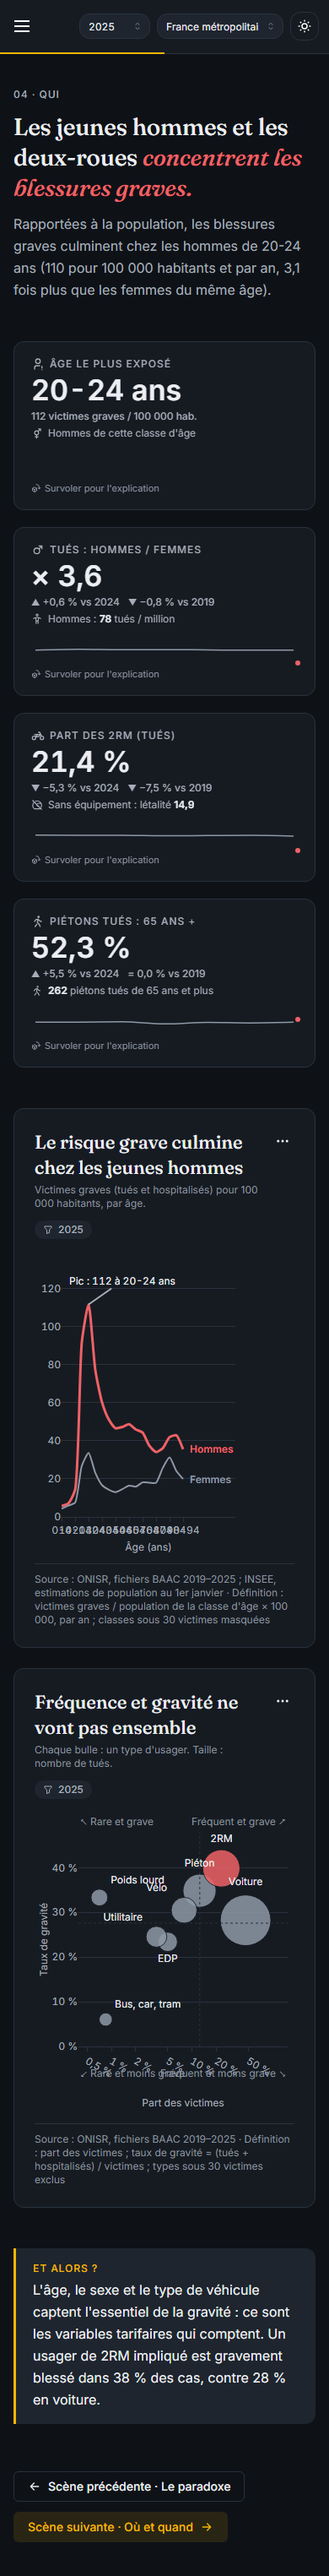
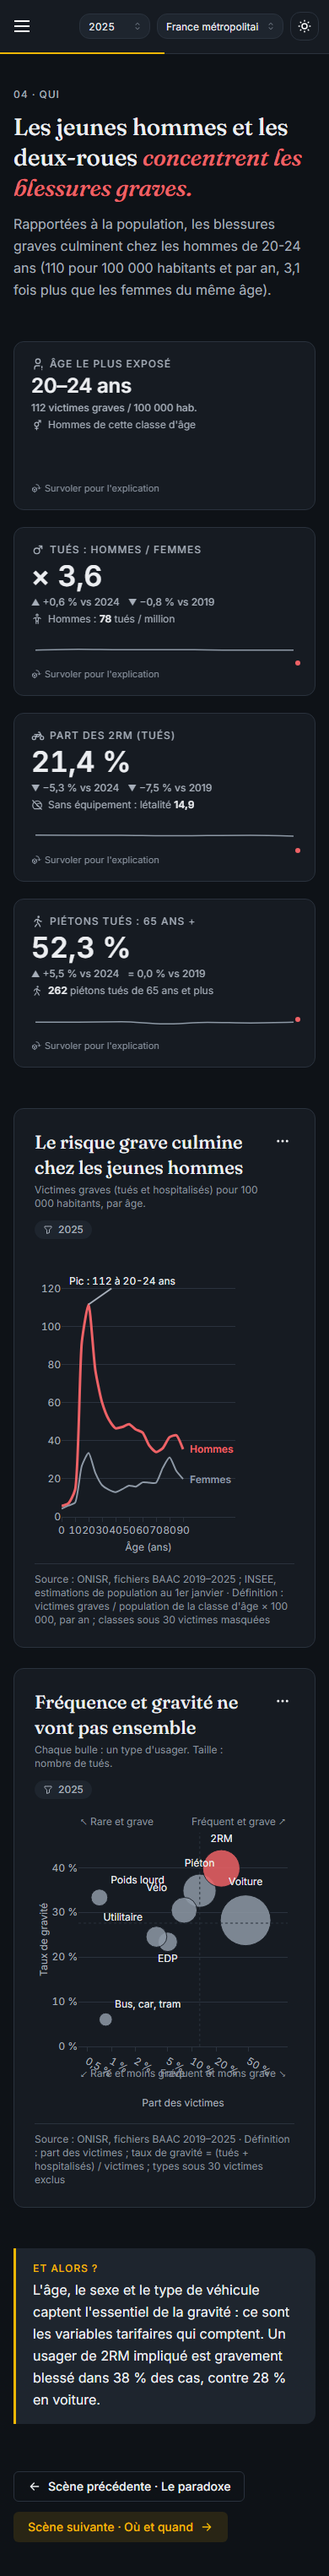
phase-4: scène 05 Où et quand (cartes tués / victimes par habitant, heatmap jour × heure, effet météo)

Changed region(s): [[0.0923, 0.1246, 0.5846, 0.1869]]

diff --git a/app/assets/custom.css b/app/assets/custom.css
@@ -113,6 +113,8 @@ body{font-family:var(--font-sans);font-feature-settings:"tnum" 1;-webkit-font-sm
 .kpi-back-title{font:500 11px/14px var(--font-sans);letter-spacing:.08em;text-transform:uppercase;color:var(--accent-text)}
 .kpi-back-text{font:400 13px/19px var(--font-sans);color:var(--text-primary)}
 .kpi-na{color:var(--text-muted)}
+.kpi-value-texte{font:600 24px/28px var(--font-sans);font-variant-numeric:normal;font-feature-settings:normal;
+  display:-webkit-box;-webkit-line-clamp:2;-webkit-box-orient:vertical;overflow:hidden;letter-spacing:-.01em}
 .kpi-na-texte{font:400 12px/16px var(--font-sans);color:var(--text-muted)}
 @media (hover:none){.kpi-hint .hint-survol{display:none}}
 @media (hover:hover){.kpi-hint .hint-toucher{display:none}}
@@ -228,3 +230,9 @@ a:focus-visible,button:focus-visible,[tabindex]:focus-visible,input:focus-visibl
 @media (max-width:767px){.visible-mobile{display:block}.visible-desktop{display:none}}
 /* KPI étroits (4 colonnes avec navbar, 1200-1439 px) : l'indice de rotation cède sa place */
 @media (min-width:1200px) and (max-width:1439px){.kpi-hint{display:none}}
+
+/* Légende de carte : classes de quantiles */
+.legende-classes{display:flex;flex-wrap:wrap;align-items:center;gap:6px 14px;font:400 12px/16px var(--font-sans);color:var(--text-secondary)}
+.legende-classes .pastille{display:inline-block;width:14px;height:10px;border-radius:2px;margin-right:6px;vertical-align:middle}
+.leg-seq-1{background:var(--seq-1)}.leg-seq-2{background:var(--seq-2)}.leg-seq-3{background:var(--seq-3)}
+.leg-seq-4{background:var(--seq-4)}.leg-seq-5{background:var(--seq-5)}.leg-seq-na{background:var(--seq-na)}

diff --git a/app/pages/s05_ou_quand.py b/app/pages/s05_ou_quand.py
@@ -1,0 +1,271 @@
+"""Scène 05 — Où et quand : territoires et moments les plus risqués."""
+
+from __future__ import annotations
+
+import dash
+import numpy as np
+import pandas as pd
+from dash import Input, Output, callback, ctx, html, no_update
+
+from app import data_access as da
+from app import figures as F
+from app.components.blocks import (
+    bascule,
+    bascule_id,
+    insight,
+    scene_header,
+    scene_layout,
+    scene_nav,
+)
+from app.components.chart_card import chart_card, chip_filtre, graph_id
+from app.components.format import fmt_number, fmt_ratio
+from app.components.kpi_card import kpi_card, kpi_row
+from app.components.scene_utils import ENTREES, SEUIL, lire
+from app.scenes import voisines
+from pipeline import config as C
+from pipeline.indicators import letalite
+
+dash.register_page(__name__, path="/ou-quand", name="Où et quand", order=5,
+                   title="Où et quand · Risque routier")
+NUM = 5
+CUMUL = da.LIBELLE_PERIODE_CUMUL
+CARTES = {"s05-carte-vict": ("taux_victimes_100k", "victimes pour 100 000 hab."),
+          "s05-carte-tues": ("taux_tues_million", "tués par million d'hab.")}
+METEO_LIB = {"pluie faible": "Pluie faible (0,2 à 5 mm)", "pluie forte": "Pluie forte (≥ 5 mm)",
+             "gel": "Gel", "premiere_pluie": "Première pluie après 7 jours secs"}
+
+
+def territoires() -> pd.DataFrame:
+    t = da.table("ind_territoires")
+    return t[t["periode"] == CUMUL].reset_index(drop=True)
+
+
+def creneaux(periode, dep) -> pd.DataFrame:
+    h = da.filtrer(da.table("s05_heatmap"), periode, dep)
+    h = h.dropna(subset=["heure"])
+    g = h.groupby(["jour_semaine", "heure"])[["accidents", "tues", "victimes"]].sum()
+    return g.reindex(pd.MultiIndex.from_product([range(7), range(24)]), fill_value=0)
+
+
+def _nuits_weekend(g: pd.DataFrame):
+    nuits = g.loc[[(j, h) for j in (5, 6) for h in range(6)]].sum()
+    tot = g.sum()
+    return letalite(nuits["tues"], nuits["victimes"]), letalite(tot["tues"], tot["victimes"])
+
+
+def titre():
+    t = territoires().dropna(subset=["taux_tues_million"])
+    ratio = t["taux_tues_million"].max() / t["taux_tues_million"].min()
+    return ("Les départements ruraux comptent", f"jusqu'à {fmt_number(ratio, 0)} fois plus de "
+            "tués par habitant.")
+
+
+def chapeau():
+    nuit, moy = _nuits_weekend(creneaux(da.PERIODE_CUMUL, da.TERRITOIRE_FRANCE))
+    m = da.modele("meteo")["effets"]
+    pluie = m["pluie faible"]["rr"]
+    phrase_pluie = ("la pluie, elle, n'augmente pas le nombre d'accidents" if pluie <= 1
+                    else "la pluie augmente le nombre d'accidents")
+    return (f"La nuit du week-end, un accident tue {fmt_number(nuit, 1)} victimes sur 100, contre "
+            f"{fmt_number(moy, 1)} en moyenne ; {phrase_pluie}.")
+
+
+def et_alors():
+    m = da.modele("meteo")["effets"]
+    pp = m["premiere_pluie"]
+    sig = not (pp["ic_bas"] <= 1 <= pp["ic_haut"])
+    return ("L'heure et le lieu pèsent plus que la météo : un tarif ou une offre « à l'usage » "
+            "doit d'abord regarder quand et où l'on roule. "
+            + ("La première pluie après une période sèche ressort comme un moment à risque."
+               if sig and pp["rr"] > 1 else
+               "L'effet « première pluie » n'est pas mesurable dans ces données."))
+
+
+def legende(bornes, unite):
+    if len(bornes) < 2:
+        return None
+    items = [html.Span([html.Span(className=f"pastille leg-seq-{i + 1}"),
+                        f"{fmt_number(bornes[i], 0)} – {fmt_number(bornes[i + 1], 0)}"])
+             for i in range(len(bornes) - 1)]
+    items.append(html.Span([html.Span(className="pastille leg-seq-na"), "effectif trop faible"]))
+    return html.Div(className="legende-classes", children=[html.Span(unite), *items])
+
+
+def layout(**_):
+    debut, accent = titre()
+    carte = lambda nom, titre_c, sous: chart_card(  # noqa: E731
+        nom, titre_c, sous, f"{da.SOURCE_BAAC} ; {da.SOURCE_INSEE}",
+        f"{CARTES[nom][1]}, cumul {CUMUL} (somme des populations annuelles) ; 5 classes par "
+        "quantiles ; clic = filtrer le département", hauteur=420, mobile=True,
+        legende=html.Div(id=f"{nom}-legende"))
+    return scene_layout(
+        scene_header(NUM, "Où et quand", debut, accent, chapeau()),
+        html.Div(id="s05-kpis"),
+        html.Div(className="grille-2", children=[
+            carte("s05-carte-vict", "Les victimes se concentrent autour des villes",
+                  "Victimes pour 100 000 habitants et par an."),
+            carte("s05-carte-tues", "Les tués, eux, sont à la campagne",
+                  "Tués par million d'habitants et par an."),
+        ]),
+        html.Div(className="grille-2", children=[
+            chart_card("s05-heatmap", "Les nuits de week-end sont les plus meurtrières",
+                       "Jour de la semaine × heure de l'accident ; plus la case est foncée, plus "
+                       "la valeur est élevée.", da.SOURCE_BAAC,
+                       "accidents corporels, ou létalité = tués / victimes × 100 ; cellules sous "
+                       "30 victimes grisées", hauteur=340, mobile=True,
+                       controles=bascule("s05-mode", ["Accidents", "Létalité"], "Létalité",
+                                         "Mesure")),
+            chart_card("s05-meteo", "La pluie ne fait pas plus d'accidents",
+                       "Risque relatif d'accident un jour donné, par rapport à un jour sec.",
+                       f"{da.SOURCE_BAAC} ; Météo-France, données quotidiennes",
+                       "GLM de Poisson (quasi-Poisson) sur le nombre d'accidents par "
+                       "département-jour, effets fixes département, mois, année, jour de semaine ; "
+                       "IC à 95 %", hauteur=340,
+                       puces=[chip_filtre(f"Modèle national {CUMUL}")]),
+        ]),
+        insight(et_alors()),
+        scene_nav(*voisines(NUM)),
+    )
+
+
+@callback(Output("s05-kpis", "children"), *ENTREES)
+def kpis(filtres, scheme):
+    periode, dep, _ = lire(filtres, scheme)
+    t = territoires().dropna(subset=["taux_tues_million"]).sort_values("taux_tues_million")
+    src_t = f"Source : {da.SOURCE_BAAC} ; {da.SOURCE_INSEE} · cumul {CUMUL}."
+    haut, bas = t.iloc[-1], t.iloc[0]
+
+    def carte_dep(kid, label, icon, ligne, rang_txt):
+        return kpi_card(
+            kid, label, icon, ligne["nom_dep"], texte=True,
+            deltas=[{"texte": f"{fmt_number(ligne['taux_tues_million'], 0)} tués / million "
+                              "d'hab. et par an", "sens": "neutre"}],
+            leader=("tabler:map-pin", [rang_txt, html.B(ligne["dep"])]),
+            lire=f"Tués rapportés à la population, cumulés sur {CUMUL} pour que chaque "
+                 "département dépasse le seuil d'effectif.",
+            assureur="Le risque mortel par habitant varie fortement d'un département à "
+                     "l'autre : un argument pour un zonage fondé sur la gravité.", source=src_t)
+
+    g = creneaux(periode, dep)
+    ok = g[g["victimes"] >= SEUIL]
+    k3 = None
+    if len(ok):
+        let = letalite(ok["tues"], ok["victimes"])
+        j, h = let.idxmax()
+        tot = g.sum()
+        k3 = kpi_card(
+            "s05-k3", "Créneau le plus létal", "tabler:clock", f"{C.JOURS[j]} {h} h", texte=True,
+            deltas=[{"texte": f"{fmt_number(let.max(), 1)} tués / 100 victimes", "sens": "neutre"}],
+            leader=("tabler:chart-dots", ["Moyenne : ", html.B(fmt_number(letalite(
+                tot["tues"], tot["victimes"]), 1))]),
+            lire="Jour et heure où un accident est le plus souvent mortel (créneaux d'au moins "
+                 "30 victimes).", assureur="Les heures de conduite comptent : un levier pour les "
+            "offres à l'usage et la prévention ciblée.",
+            source=f"Source : {da.SOURCE_BAAC} · {da.libelle_territoire(dep)}.")
+    if k3 is None:
+        k3 = kpi_card("s05-k3", "Créneau le plus létal", "tabler:clock", "—",
+                      lire="Aucun créneau n'atteint 30 victimes sur ce périmètre.",
+                      assureur="Élargir la période ou le territoire.",
+                      source=f"Source : {da.SOURCE_BAAC}.", indisponible=True)
+
+    pp = da.modele("meteo")["effets"]["premiere_pluie"]
+    sig = not (pp["ic_bas"] <= 1 <= pp["ic_haut"])
+    k4 = kpi_card(
+        "s05-k4", "Risque « première pluie »", "tabler:cloud-rain", fmt_ratio(pp["rr"], 2),
+        deltas=[{"texte": f"IC 95 % : {fmt_number(pp['ic_bas'], 2)} – "
+                          f"{fmt_number(pp['ic_haut'], 2)}", "sens": "neutre"}],
+        leader=("tabler:info-circle", ["Effet ", html.B("significatif" if sig else
+                                                        "non significatif")]),
+        lire="Surcroît d'accidents un premier jour de pluie après au moins 7 jours secs, à "
+             "département, mois, année et jour de semaine égaux.",
+        assureur="Un effet faible ou nul : la météo seule ne justifie pas une alerte dédiée.",
+        source=f"Source : modèle GLM national {CUMUL} ({da.SOURCE_BAAC} ; Météo-France).")
+    return kpi_row([
+        carte_dep("s05-k1", "Taux de tués le plus élevé", "tabler:trending-up", haut,
+                  f"Rang 1 sur {len(t)} · "),
+        carte_dep("s05-k2", "Taux de tués le plus faible", "tabler:trending-down", bas,
+                  f"Rang {len(t)} sur {len(t)} · "),
+        k3, k4])
+
+
+def _cartes(nom, dep, scheme):
+    col, unite = CARTES[nom]
+    t = territoires()
+    sel = dep if dep != da.TERRITOIRE_FRANCE else None
+    fig, bornes = F.choroplethe(da.geojson(), t["dep"].tolist(), t["nom_dep"].tolist(),
+                                t[col].tolist(), scheme, unite, selection=sel)
+    mob = F.barres_classees(t["nom_dep"].tolist(), t[col].astype(float).tolist(), scheme, unite)
+    puces = [chip_filtre(f"{CUMUL} cumulé")]
+    if sel:
+        puces.append(chip_filtre(f"Filtre : {da.noms_departements().get(dep, dep)}",
+                                 {"type": "s05-effacer", "index": nom}, effacable=True))
+    return fig, mob, legende(bornes, f"{unite[0].upper()}{unite[1:]} :"), puces
+
+
+@callback(Output(graph_id("s05-carte-vict"), "figure"),
+          Output(graph_id("s05-carte-vict-mobile"), "figure"),
+          Output("s05-carte-vict-legende", "children"), Output("s05-carte-vict-puces", "children"),
+          Output(graph_id("s05-carte-tues"), "figure"),
+          Output(graph_id("s05-carte-tues-mobile"), "figure"),
+          Output("s05-carte-tues-legende", "children"), Output("s05-carte-tues-puces", "children"),
+          *ENTREES)
+def cartes(filtres, scheme):
+    _, dep, scheme = lire(filtres, scheme)
+    return (*_cartes("s05-carte-vict", dep, scheme), *_cartes("s05-carte-tues", dep, scheme))
+
+
+@callback(Output("filtre-territoire", "value", allow_duplicate=True),
+          Input(graph_id("s05-carte-vict"), "clickData"),
+          Input(graph_id("s05-carte-tues"), "clickData"),
+          Input({"type": "s05-effacer", "index": dash.ALL}, "n_clicks"),
+          prevent_initial_call=True)
+def filtrer_par_clic(clic_v, clic_t, effacer):
+    declencheur = ctx.triggered_id
+    if isinstance(declencheur, dict) and declencheur.get("type") == "s05-effacer":
+        return da.TERRITOIRE_FRANCE if any(effacer) else no_update
+    clic = clic_v if declencheur == graph_id("s05-carte-vict") else clic_t
+    try:
+        return clic["points"][0]["location"]
+    except (TypeError, KeyError, IndexError):
+        return no_update
+
+
+@callback(Output(graph_id("s05-heatmap"), "figure"),
+          Output(graph_id("s05-heatmap-mobile"), "figure"),
+          Output("s05-heatmap-puces", "children"),
+          Input(bascule_id("s05-mode"), "value"), *ENTREES)
+def heatmap(mode, filtres, scheme):
+    periode, dep, scheme = lire(filtres, scheme)
+    g = creneaux(periode, dep)
+    puces = [chip_filtre(x) for x in da.puces_filtres(periode, dep)]
+    if mode == "Accidents":
+        z = g["accidents"].to_numpy().reshape(7, 24)
+        masque = np.zeros_like(z, dtype=bool)
+        fig = F.heatmap_jour_heure(z, masque, C.JOURS, scheme, "%{z:,.0f} accidents")
+        par_h = g.groupby(level=1)["accidents"].sum()
+        mob = F.barres_heure(list(range(24)), par_h.tolist(), scheme)
+    else:
+        let = letalite(g["tues"], g["victimes"].replace(0, np.nan))
+        z = let.to_numpy().reshape(7, 24)
+        masque = (g["victimes"] < SEUIL).to_numpy().reshape(7, 24)
+        fig = F.heatmap_jour_heure(z, masque, C.JOURS, scheme, "%{z:.1f} tués / 100 victimes")
+        par_h = g.groupby(level=1)[["tues", "victimes"]].sum()
+        vals = letalite(par_h["tues"], par_h["victimes"]).where(par_h["victimes"] >= SEUIL)
+        mob = F.barres_heure(list(range(24)), vals.fillna(0).tolist(), scheme,
+                             fmt=lambda v: fmt_number(v, 1))
+        if masque.all():
+            fig = F.message_figure("Moins de 30 victimes par créneau : létalité non affichée",
+                                   scheme)
+    return fig, mob, puces
+
+
+@callback(Output(graph_id("s05-meteo"), "figure"), *ENTREES)
+def meteo(filtres, scheme):
+    _, _, scheme = lire(filtres, scheme)
+    e = da.modele("meteo")["effets"]
+    cles = ["pluie faible", "pluie forte", "gel", "premiere_pluie"]
+    rr = [e[k]["rr"] for k in cles]
+    signif = [k for k in cles if not (e[k]["ic_bas"] <= 1 <= e[k]["ic_haut"]) and e[k]["rr"] > 1]
+    alerte = METEO_LIB[max(signif, key=lambda k: e[k]["rr"])] if signif else None
+    return F.risques_relatifs([METEO_LIB[k] for k in cles], rr, [e[k]["ic_bas"] for k in cles],
+                              [e[k]["ic_haut"] for k in cles], scheme, alerte=alerte)

diff --git a/app/components/chart_card.py b/app/components/chart_card.py
@@ -46,13 +46,22 @@ def chip_filtre(texte: str, chip_id: dict | str | None = None, effacable: bool =
 
 def chart_card(nom: str, titre, sous_titre: str, source: str, definition: str, *,
                figure=None, hauteur: int = 340, puces: list | None = None,
-               controles=None, corps=None, aria: str | None = None) -> html.Section:
-    """`corps` remplace le graphique (ex. message « effectif trop faible »)."""
+               controles=None, corps=None, aria: str | None = None,
+               mobile: bool = False, legende=None) -> html.Section:
+    """`corps` remplace le graphique (ex. message « effectif trop faible »).
+    `mobile=True` ajoute un second graphique `<nom>-mobile` affiché sous 768 px (DESIGN §10),
+    le principal étant alors masqué sur mobile. `legende` s'affiche sous le graphique."""
     avec_graphe = corps is None
     graphe = corps if not avec_graphe else dcc.Loading(
         type="dot", delay_show=300, color="var(--accent)",
         children=dcc.Graph(id=graph_id(nom), figure=figure or FIGURE_VIDE, config=GRAPH_CONFIG,
                            style={"height": f"{hauteur}px"}, className="chart-graph"))
+    if avec_graphe and mobile:
+        graphe = html.Div([
+            html.Div(graphe, className="visible-desktop"),
+            html.Div(className="visible-mobile", children=dcc.Graph(
+                id=graph_id(f"{nom}-mobile"), figure=FIGURE_VIDE, config=GRAPH_CONFIG,
+                style={"height": f"{hauteur}px"}))])
     return html.Section(className="carte chart-card", role="figure",
                         **{"aria-label": aria or (titre if isinstance(titre, str) else nom)},
                         children=[
@@ -68,6 +77,7 @@ def chart_card(nom: str, titre, sous_titre: str, source: str, definition: str, *
         dmc.Group(id=f"{nom}-puces", gap=8, children=puces or []),
         controles,
         graphe,
+        legende,
         html.Div(className="chart-foot caption", children=[
             html.Span(f"Source : {source}"), html.Span(" · "),
             html.Span(f"Définition : {definition}")]),

diff --git a/app/components/kpi_card.py b/app/components/kpi_card.py
@@ -35,14 +35,17 @@ def sparkline(valeurs: list, hauteur: int = 28) -> html.Div:
 def kpi_card(kpi_id: str, label: str, icon: str, valeur: str, *, deltas: list[dict] = (),
              leader: tuple[str, list] | None = None, spark: list | None = None,
              lire: str, assureur: str, source: str, aria: str | None = None,
-             indisponible: bool = False, compte: int | None = None) -> html.Div:
+             indisponible: bool = False, compte: int | None = None,
+             texte: bool = False) -> html.Div:
     """`valeur` est déjà formatée (fmt_number / fmt_pct) ; `deltas` vient de format.delta.
-    `compte` (entier) active le comptage animé au premier affichage (app.js)."""
+    `compte` (entier) active le comptage animé au premier affichage (app.js).
+    `texte=True` : valeur textuelle (nom, créneau) en corps réduit, sur 2 lignes au plus."""
     attrs = {"data-count": str(compte)} if compte is not None else {}
     na = indisponible or valeur == NA
     valeur_node = (html.Div([html.Span(NA, className="kpi-value kpi-na"),
                              html.Span(" Donnée indisponible", className="kpi-na-texte")])
-                   if na else html.Div(valeur, className="kpi-value", **attrs))
+                   if na else html.Div(valeur, className="kpi-value kpi-value-texte" if texte
+                                       else "kpi-value", **attrs))
 
     recto = html.Div(className="kpi-face", children=[
         html.Div(className="kpi-head", children=[

diff --git a/app/figures.py b/app/figures.py
@@ -328,17 +328,18 @@ def risques_relatifs(libelles, rr, bas, haut, scheme: str, alerte=None) -> go.Fi
     t = tokens(scheme)
     couleurs = [t["grav-tue"] if lb == alerte else t["data-neutre"] for lb in libelles]
     fig = go.Figure(go.Scatter(
-        x=rr, y=libelles, mode="markers+text", orientation="h",
+        x=rr, y=libelles, mode="markers", orientation="h",
         marker=dict(size=12, color=couleurs, symbol="square"),
         error_x=dict(type="data", array=[h - r for r, h in zip(rr, haut, strict=True)],
                      arrayminus=[r - b for r, b in zip(rr, bas, strict=True)],
                      thickness=1.25, width=4, color=t["text-secondary"]),
-        text=[fmt_ratio(r) for r in rr], textposition="middle right",
-        textfont=dict(color=t["text-primary"], size=12),
         customdata=np.column_stack([bas, haut]),
         hovertemplate=("%{y} : × %{x:.2f}<br>IC 95 % : %{customdata[0]:.2f} – "
                        "%{customdata[1]:.2f}<extra></extra>")))
     fig.add_vline(x=1, line=dict(color=t["text-secondary"], width=1))
+    for lb, r, h in zip(libelles, rr, haut, strict=True):
+        fig.add_annotation(**_annot(t, h, lb, fmt_ratio(r), t["text-primary"], xanchor="left",
+                                    xshift=8))
     lo, hi = min(bas), max(haut)
     marge = (hi - lo) * 0.35 + 0.02
     return _base(fig, scheme, margin=dict(l=8, r=8, t=8, b=8), showlegend=False,

diff --git a/app/pages/s04_qui.py b/app/pages/s04_qui.py
@@ -148,7 +148,7 @@ def kpis(filtres, scheme):
     if len(valides):
         pic = valides.loc[valides["taux"].idxmax()]
         k1 = kpi_card("s04-k1", "Âge le plus exposé", "tabler:user-exclamation",
-                      f"{pic['classe_age']} ans",
+                      f"{str(pic['classe_age']).replace('-', '–')} ans", texte=True,
                       deltas=[{"texte": f"{fmt_number(pic['taux'], 0)} victimes graves "
                                         "/ 100 000 hab.", "sens": "neutre"}],
                       leader=("tabler:gender-bigender",
